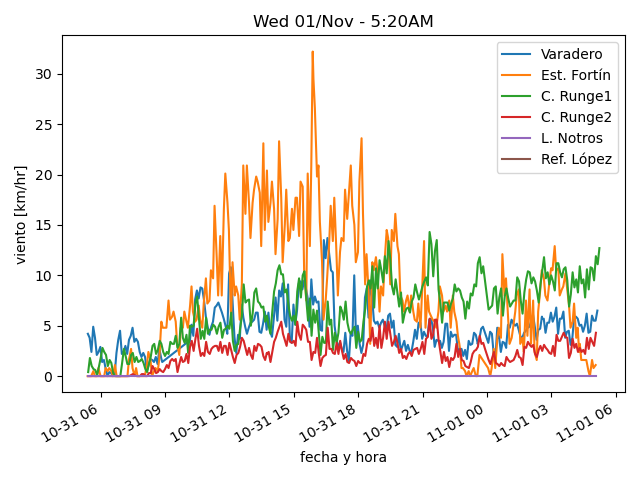
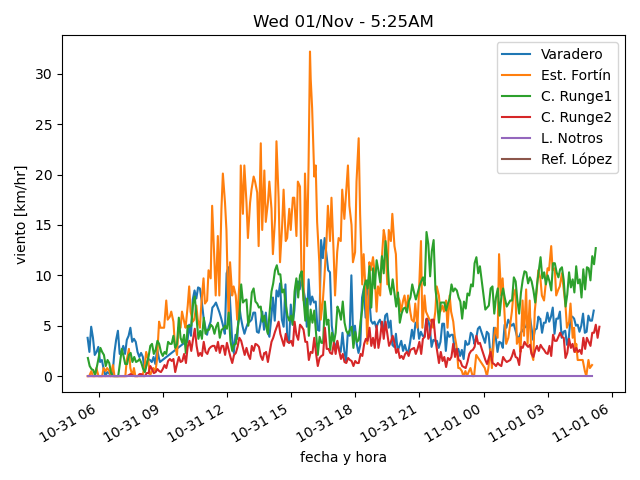
actualiza datos

diff --git a/estaciones/estacion4.html b/estaciones/estacion4.html
@@ -18,37 +18,37 @@
     </tr>
     <tr>
      <td class="stats_data">
-      5:04AM
+      5:24AM
      </td>
     </tr>
     <tr>
      <td class="stats_data">
-      2.1⁰C
+      2.2⁰C
      </td>
     </tr>
     <tr>
      <td class="stats_data">
-      1.4⁰C
+      1.2⁰C
      </td>
     </tr>
     <tr>
      <td class="stats_data">
-      94.9%
+      93.8%
      </td>
     </tr>
     <tr>
      <td class="stats_data">
-      1020.73hPa
+      1020.62hPa
      </td>
     </tr>
     <tr>
      <td class="stats_data">
-      2.2/4.3 km/hr SE
+      3.3/4.9 km/hr SSE
      </td>
     </tr>
     <tr>
      <td class="stats_data">
-      1.7 / 1.19 mm
+      1.7 / 0.0 mm
      </td>
     </tr>
     <tr>
